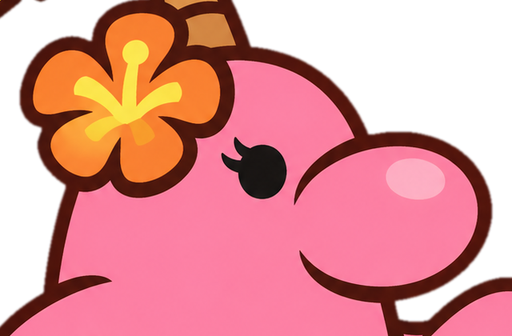
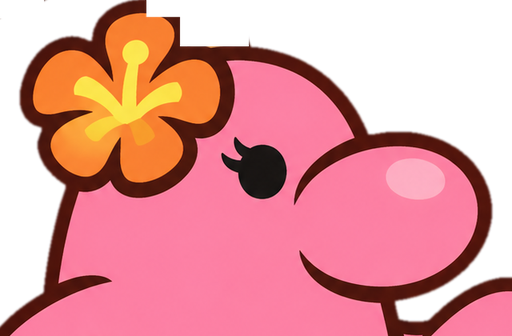
Make her a tall figure poking out of the top, with the wave across her waist
The header crop is now her whole figure from the flower down (a tall rectangle with both
arms), drawn much taller so her head and flower clearly rise above the bubble's top edge
and the wave crosses her at the waist, like the top of her skirt. Stray bits of the palm
are erased from the source crops, which also tidies the tray icon. The panel is a little
wider so the name still fits.

Changed region(s): [[0.2812, 0.0, 0.5, 0.1488], [0.0, 0.0, 0.0938, 0.0595]]

diff --git a/assets/build_icons.py b/assets/build_icons.py
@@ -15,11 +15,12 @@ SOURCE = HERE / "pianta_source.png"
 SIZES = [16, 24, 32, 48, 64, 128, 256]
 FACE_PX = 512
 FACE_BOX = (335, 285, 975, 705)  # flower, eye and nose, in source-image pixels
-BUST_BOX = (320, 255, 990, 980)  # head, upper body and the start of the skirt
-# Bits of the palm that poke into the top of the bust crop, as fractions of the crop (x, y).
-BUST_ERASE = [
-    [(0.296, 0.0), (0.486, 0.0), (0.486, 0.113), (0.355, 0.113), (0.355, 0.07), (0.296, 0.07)],
-    [(0.0, 0.0), (0.127, 0.0), (0.127, 0.049), (0.0, 0.049)],
+BUST_BOX = (290, 285, 1045, 1170)  # her whole figure from the flower down: a tall rectangle
+BUST_PX = 1024  # only the top of it is shown at a time, so it is kept sharper
+# Bits of the palm that poke into the top of the crops, in source-image pixels.
+ERASE = [
+    [(518, 255), (646, 255), (646, 343), (560, 343), (560, 306), (518, 306)],  # the trunk
+    [(290, 255), (390, 255), (390, 308), (290, 308)],  # a yellow frond
 ]
 TILE_PX = 1024  # drawn large, then shrunk so the rounded corners are smooth
 TILE_RADIUS = 0.22  # corner radius as a fraction of the tile
@@ -42,15 +43,21 @@ def cut_out(source: Image.Image) -> Image.Image:
     return out
 
 
-def erase(image: Image.Image, shapes: list[list[tuple[float, float]]]) -> Image.Image:
-    """Make the given regions (fractions of the image) transparent, with smooth edges."""
+def erase(image: Image.Image, shapes: list[list[tuple[int, int]]]) -> Image.Image:
+    """Make the given regions (in this image's pixels) transparent, with smooth edges."""
     scale = 4
-    mask = Image.new("L", (image.width * scale, image.height * scale), 255)
-    for shape in shapes:
-        ImageDraw.Draw(mask).polygon([(x * mask.width, y * mask.height) for x, y in shape], fill=0)
-    mask = mask.resize(image.size, Image.Resampling.LANCZOS)
     out = image.copy()
-    out.putalpha(ImageChops.multiply(out.getchannel("A"), mask))
+    for shape in shapes:
+        left, top = min(x for x, _ in shape), min(y for _, y in shape)
+        right, bottom = max(x for x, _ in shape), max(y for _, y in shape)
+        mask = Image.new("L", ((right - left) * scale, (bottom - top) * scale), 255)
+        ImageDraw.Draw(mask).polygon(
+            [((x - left) * scale, (y - top) * scale) for x, y in shape], fill=0
+        )
+        mask = mask.resize((right - left, bottom - top), Image.Resampling.LANCZOS)
+        patch = out.crop((left, top, right, bottom))
+        patch.putalpha(ImageChops.multiply(patch.getchannel("A"), mask))
+        out.paste(patch, (left, top))
     return out
 
 
@@ -71,12 +78,13 @@ def rounded_tile(source: Image.Image) -> Image.Image:
 
 
 def main() -> None:
-    figure = cut_out(Image.open(SOURCE))
-    for name, box in (("pianta_face.png", FACE_BOX), ("pianta_bust.png", BUST_BOX)):
+    figure = erase(cut_out(Image.open(SOURCE)), ERASE)
+    for name, box, size in (
+        ("pianta_face.png", FACE_BOX, FACE_PX),
+        ("pianta_bust.png", BUST_BOX, BUST_PX),
+    ):
         crop = figure.crop(box)
-        crop.thumbnail((FACE_PX, FACE_PX), Image.Resampling.LANCZOS)
-        if name == "pianta_bust.png":
-            crop = erase(crop, BUST_ERASE)
+        crop.thumbnail((size, size), Image.Resampling.LANCZOS)
         crop.save(HERE.parent / "carol_aio" / "assets" / name, optimize=True)
 
     rounded_tile(Image.open(SOURCE)).save(HERE / "carol_aio.ico", sizes=[(s, s) for s in SIZES])

diff --git a/carol_aio/bubble.py b/carol_aio/bubble.py
@@ -17,7 +17,7 @@ from PIL import Image, ImageChops, ImageDraw, ImageFilter
 from carol_aio.icon import bust_image, name_image
 
 SS = 3  # drawn this many times larger, then shrunk, so the edges are smooth
-NECK = 0.60  # how far down her picture the wave crosses her (0 is the top, 1 the bottom)
+NECK = 0.54  # how far down her picture the wave crosses her (0 is the top, 1 the bottom)
 Point = tuple[float, float]
 
 
@@ -35,7 +35,8 @@ class Bubble:
     image: Image.Image
     content_x: int  # where the controls' window goes inside the image
     content_y: int
-    margin: int  # transparent space round the bubble (for the shadow and the peeking face)
+    margin: int  # transparent space beside and below the bubble (for the shadow)
+    body_y: int  # where the bubble's own top edge is; she pokes up above it
 
 
 def _bezier(p0: Point, p1: Point, p2: Point, steps: int = 14) -> list[Point]:
@@ -97,7 +98,13 @@ def render(
     ``scale`` turns design pixels into real ones (display scaling).
     """
     s = scale
-    margin, pad, line, radius = s(18), s(10), s(2), s(22)
+    margin, top, pad, line, radius = (
+        s(18),
+        s(44),
+        s(10),
+        s(2),
+        s(22),
+    )  # top: room for her to poke out
     band, amplitude, wavelength, tail_h = s(72), s(3), s(46), s(16)
     body_w = content_w + 2 * pad
     clear = line + s(
@@ -105,8 +112,8 @@ def render(
     )  # sand between the wave and the controls, so the shrinking can't blur into them
     body_h = band + amplitude + clear + content_h + pad
     width = body_w + 2 * margin
-    height = margin + body_h + (tail_h if tail else 0) + margin
-    x0, y0, x1, y1 = margin, margin, margin + body_w, margin + body_h
+    height = top + body_h + (tail_h if tail else 0) + margin
+    x0, y0, x1, y1 = margin, top, margin + body_w, top + body_h
     tail_geometry = (x1 - s(82), x1 - s(46), x1 - s(50), y1 + tail_h) if tail else None
     path = _outline(x0, y0, x1, y1, radius, tail_geometry)
 
@@ -129,9 +136,9 @@ def render(
 
     # Her head and upper body rise out of the band, over the top edge. The body below the wave
     # is in front of her, so the wave reads as the top of her outfit.
-    figure_h = s(134)
+    figure_h = s(196)
     figure = bust_image(figure_h * SS)
-    figure_x = (x0 + s(8)) * SS
+    figure_x = (x0 + s(4)) * SS
     figure_y = round((y0 + band - NECK * figure_h) * SS)  # where the wave crosses her
     placed = Image.new("RGBA", layer.size, (0, 0, 0, 0))
     placed.alpha_composite(figure, (figure_x, figure_y))
@@ -152,6 +159,6 @@ def render(
 
     # The name sits beside her, on the band.
     baseline = y0 + s(48)
-    name = name_image(s(28), colors.on_sea)
-    out.alpha_composite(name, (x0 + s(8) + round(figure.width / SS) + s(8), baseline - name.height))
-    return Bubble(out, x0 + pad, y0 + band + amplitude + clear, margin)
+    name = name_image(s(26), colors.on_sea)
+    out.alpha_composite(name, (x0 + s(4) + round(figure.width / SS) + s(8), baseline - name.height))
+    return Bubble(out, x0 + pad, y0 + band + amplitude + clear, margin, y0)

diff --git a/tests/test_icon.py b/tests/test_icon.py
@@ -24,9 +24,9 @@ class BustImageTest(unittest.TestCase):
     def test_the_bust_is_the_requested_height(self) -> None:
         self.assertEqual(bust_image(104).height, 104)
 
-    def test_the_bust_is_taller_than_the_face_crop_not_wider(self) -> None:
+    def test_the_bust_is_a_tall_rectangle(self) -> None:
         bust = bust_image(104)
-        self.assertLess(bust.width, bust.height * 1.05)  # roughly as tall as wide, not a wide strip
+        self.assertLess(bust.width, bust.height * 0.9)
 
 
 if __name__ == "__main__":

diff --git a/tests/test_bubble.py b/tests/test_bubble.py
@@ -31,7 +31,7 @@ class BubbleTest(unittest.TestCase):
 
     def test_the_header_band_is_sea_coloured(self) -> None:
         art = render(300, 200, COLORS)
-        pixel = art.image.getpixel((art.image.width - art.margin - 24, art.margin + 14))
+        pixel = art.image.getpixel((art.image.width - art.margin - 24, art.body_y + 14))
         assert isinstance(pixel, tuple)
         self.assertEqual(pixel[:3], (0x1D, 0x93, 0xB3))
 

diff --git a/carol_aio/app.py b/carol_aio/app.py
@@ -25,7 +25,7 @@ CONFIG_POLL_MS = 1000
 QUEUE_POLL_MS = 100
 AUTO_CHECK_DELAY_MS = 4000  # let the tray icon settle before checking for updates
 REOPEN_GUARD_S = 0.3  # the tray click that dismissed the panel must not reopen it
-FLYOUT_WIDTH = 370
+FLYOUT_WIDTH = 384
 EDGE_GAP = 12
 
 
